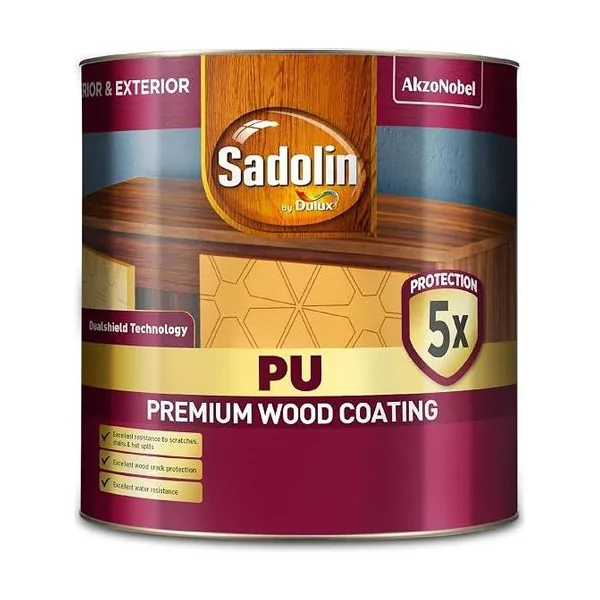
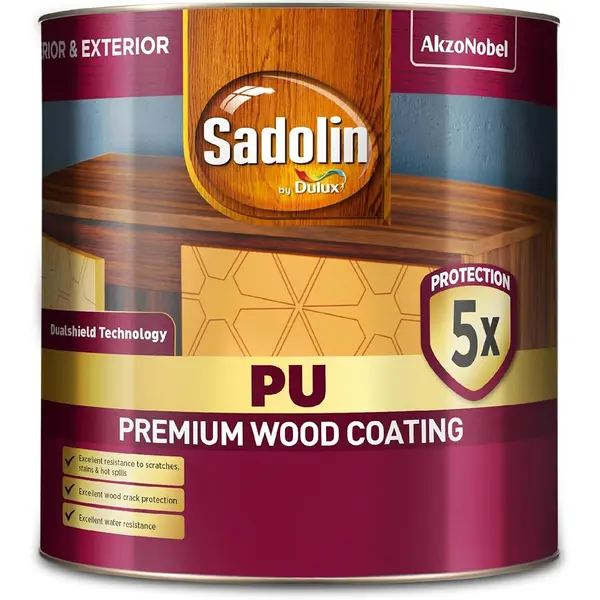
feat(po-v2): three Wood tins — Luxurio gains one, 2K PU and PU Prime change
Owner's ruling: proceed without concrete, floor plus and thinner.

CONVERTED WITH sharp, which is ALREADY a declared dependency
(package.json:57, ^0.35.4). Nothing installed, nothing added to
package.json. ImageMagick is not present on this machine. The script
ran from the scratchpad and is not in the repo.

  resize 600x600 fit:contain on white -> flatten #ffffff -> webp q75

fit:contain pads, never stretches or crops, which matters here: two of
the three sources are not square (894x993, 895x1000) and a cover fit
would have cut the tin.

⚠ q75 AND NOT q82. At 82 the two big sources came out 41KB and 45KB,
above the 5-36KB range every other tin sits in, and these load EAGERLY
now that the first Wood family can be above the fold. q75 lands them at
32 and 35KB with no visible cost at 600px on a phone.

PER FILE — the three post-conversion checks, which are the only
evidence I have since I cannot see the pictures:

  2K PU.jpg      894x993  -> 2k-matt.webp     webp 600x600 corners white  32KB
  PU PRIME.jpg   895x1000 -> prime-matt.webp  webp 600x600 corners white  35KB
  LUXURIO PU.jpg 500x500  -> luxurio.webp     webp 600x600 corners white  19KB

SAFETY NET ran over EVERY file in photofix/, not only the three named,
sampling all four corners before touching anything:

  2K PU · PU PRIME · LUXURIO PU   255,255,255 all round      converted
  wodd primer pink.jpg            254-255 all round          SKIPPED, see below
[…]

diff --git a/app/po-v2-8f4kd2/v2-data.ts b/app/po-v2-8f4kd2/v2-data.ts
@@ -358,6 +358,10 @@ export const TILE_IMAGES: ReadonlySet<string> = new Set([
   "damp-2in1",
   "ext-acrylic",
   "gloss",
+  // 2026-09-10 — the first Wood tile to get a photograph of its own range.
+  // 2k-matt and prime-matt were already here; their FILES were replaced in the
+  // same pass, so those two tiles change picture rather than gain one.
+  "luxurio",
   "max",
   "pearl-glo",
   "platinum-glo",
